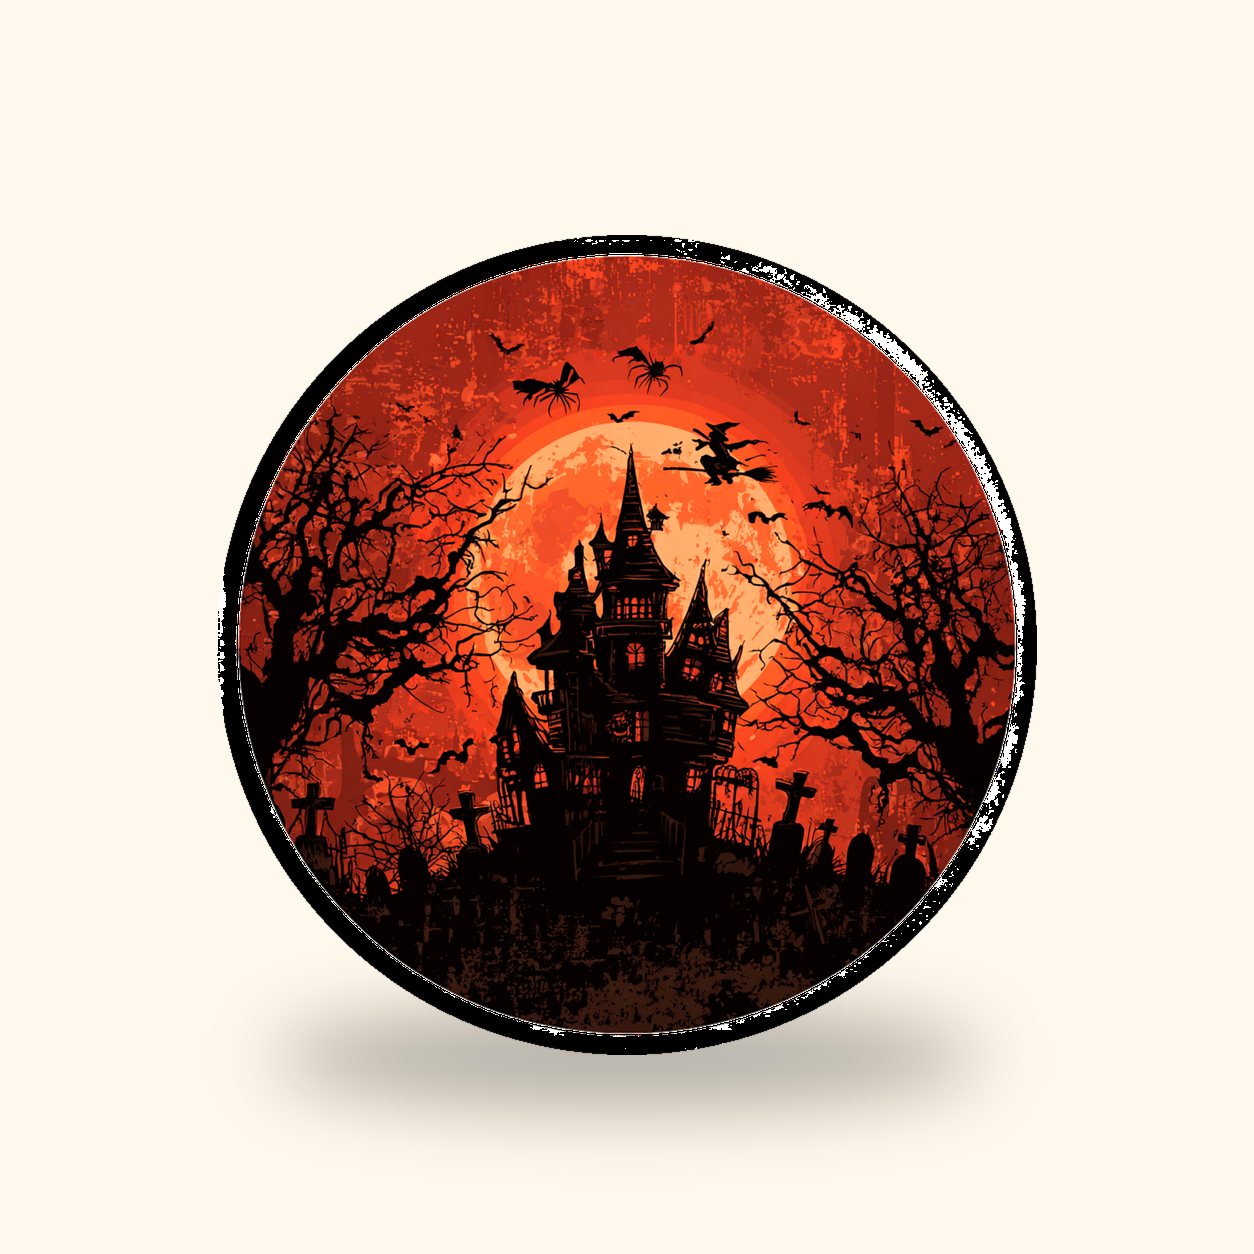
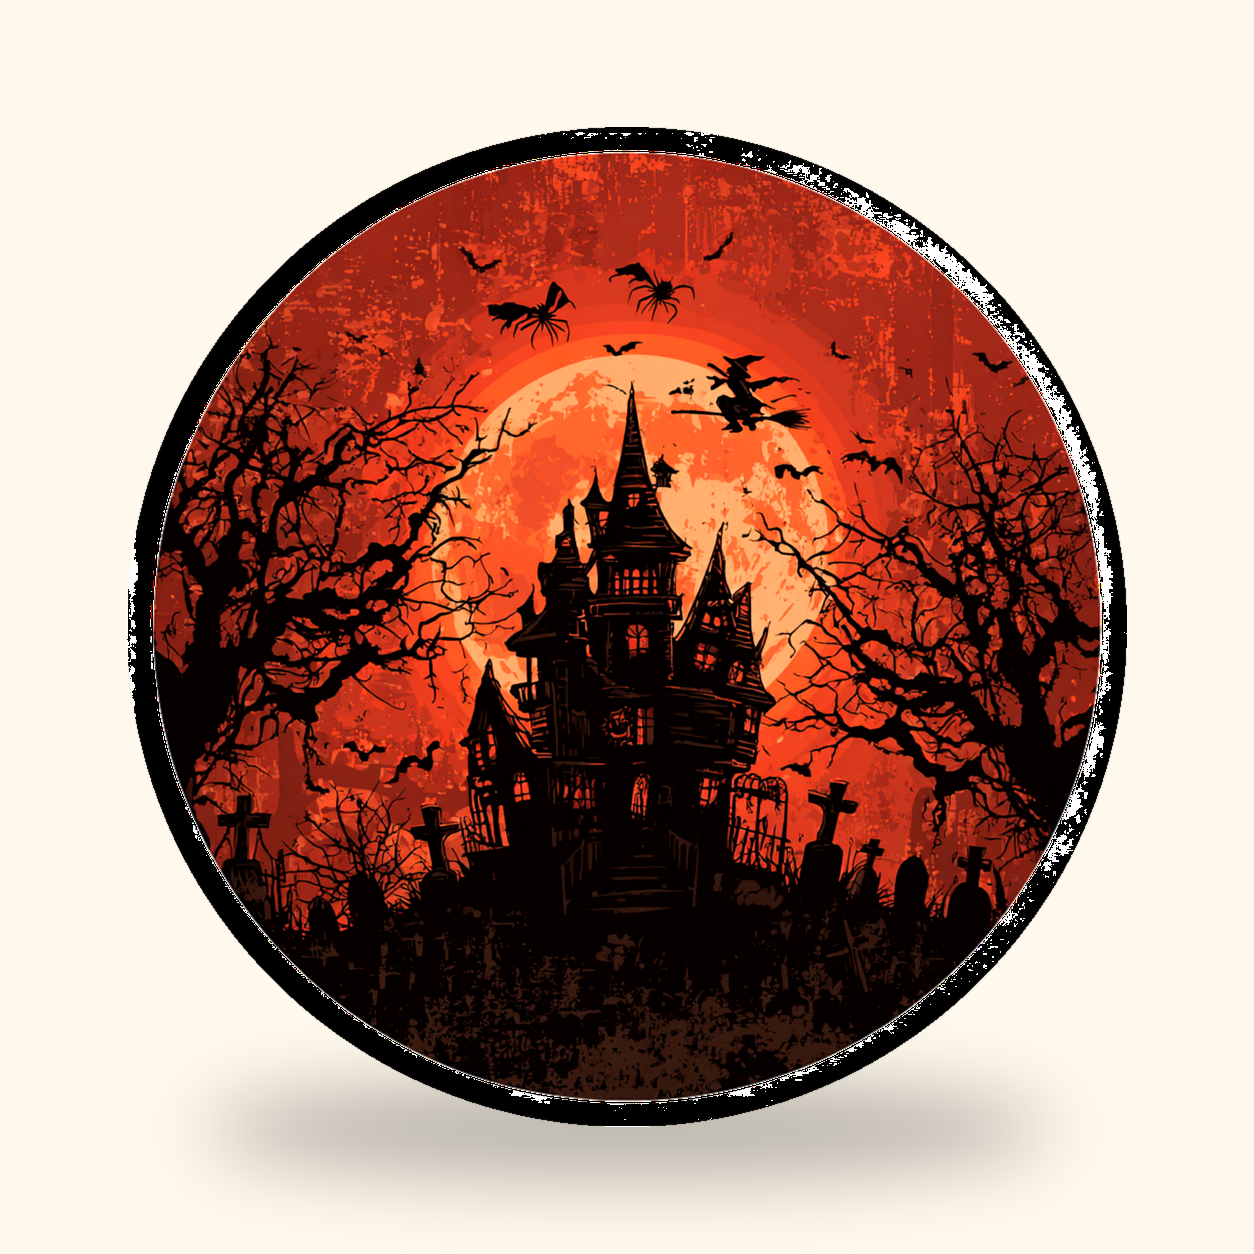
d

diff --git a/index.html b/index.html
@@ -440,7 +440,7 @@ footer{max-width:1360px;margin:40px auto 0;padding:30px 32px;border-top:1px soli
     <div class="tile" data-open="cork-coast">
       <span class="tile-label">Set of 4</span>
       <div class="ph cream">
-        <img src="assets/coaster-homepage.png" alt="Custom Coaster" style="width:100%;height:100%;object-fit:cover;display:block">
+        <img src="assets/coaster-homepage.png" alt="Custom Coaster" style="width:86%;height:86%;object-fit:contain;display:block;margin:auto">
       </div>
       <div class="tile-cta">
         <div><h3>Custom Coaster</h3><span class="price">Coming soon</span></div>
@@ -734,7 +734,7 @@ function renderGrid(){
     <div class="card" data-open="${p.id}">
       <div class="card-media">
         ${p.badge && TWEAKS.showBadges ? `<span class="badge ${p.badge==='New'?'new':''}">${p.badge}</span>`:''}
-        ${p.image ? `<div class="ph ${p.tint}" style="background:#FFF8EC"><img src="${p.image}" alt="${p.name}" style="${p.id === 'sig-mug' ? 'width:100%;height:100%;object-fit:cover;display:block;position:relative;z-index:0' : 'width:86%;height:auto;position:relative;z-index:0;filter:drop-shadow(0 18px 22px rgba(0,0,0,.12))'}"></div>` : `<div class="ph ${p.tint}">${SVGS[p.render]}</div>`}
+        ${p.image ? `<div class="ph ${p.tint}" style="background:#FFF8EC"><img src="${p.image}" alt="${p.name}" style="${p.id === 'sig-mug' ? 'width:100%;height:100%;object-fit:cover;display:block;position:relative;z-index:0' : p.id === 'cork-coast' ? 'width:86%;height:86%;object-fit:contain;display:block;margin:auto;position:relative;z-index:0' : 'width:86%;height:auto;position:relative;z-index:0;filter:drop-shadow(0 18px 22px rgba(0,0,0,.12))'}"></div>` : `<div class="ph ${p.tint}">${SVGS[p.render]}</div>`}
       </div>
       <div class="card-body">
         <div class="card-title"><h3>${p.name}</h3><span class="price">${available ? `$${p.price}` : 'Coming soon'}</span></div>
